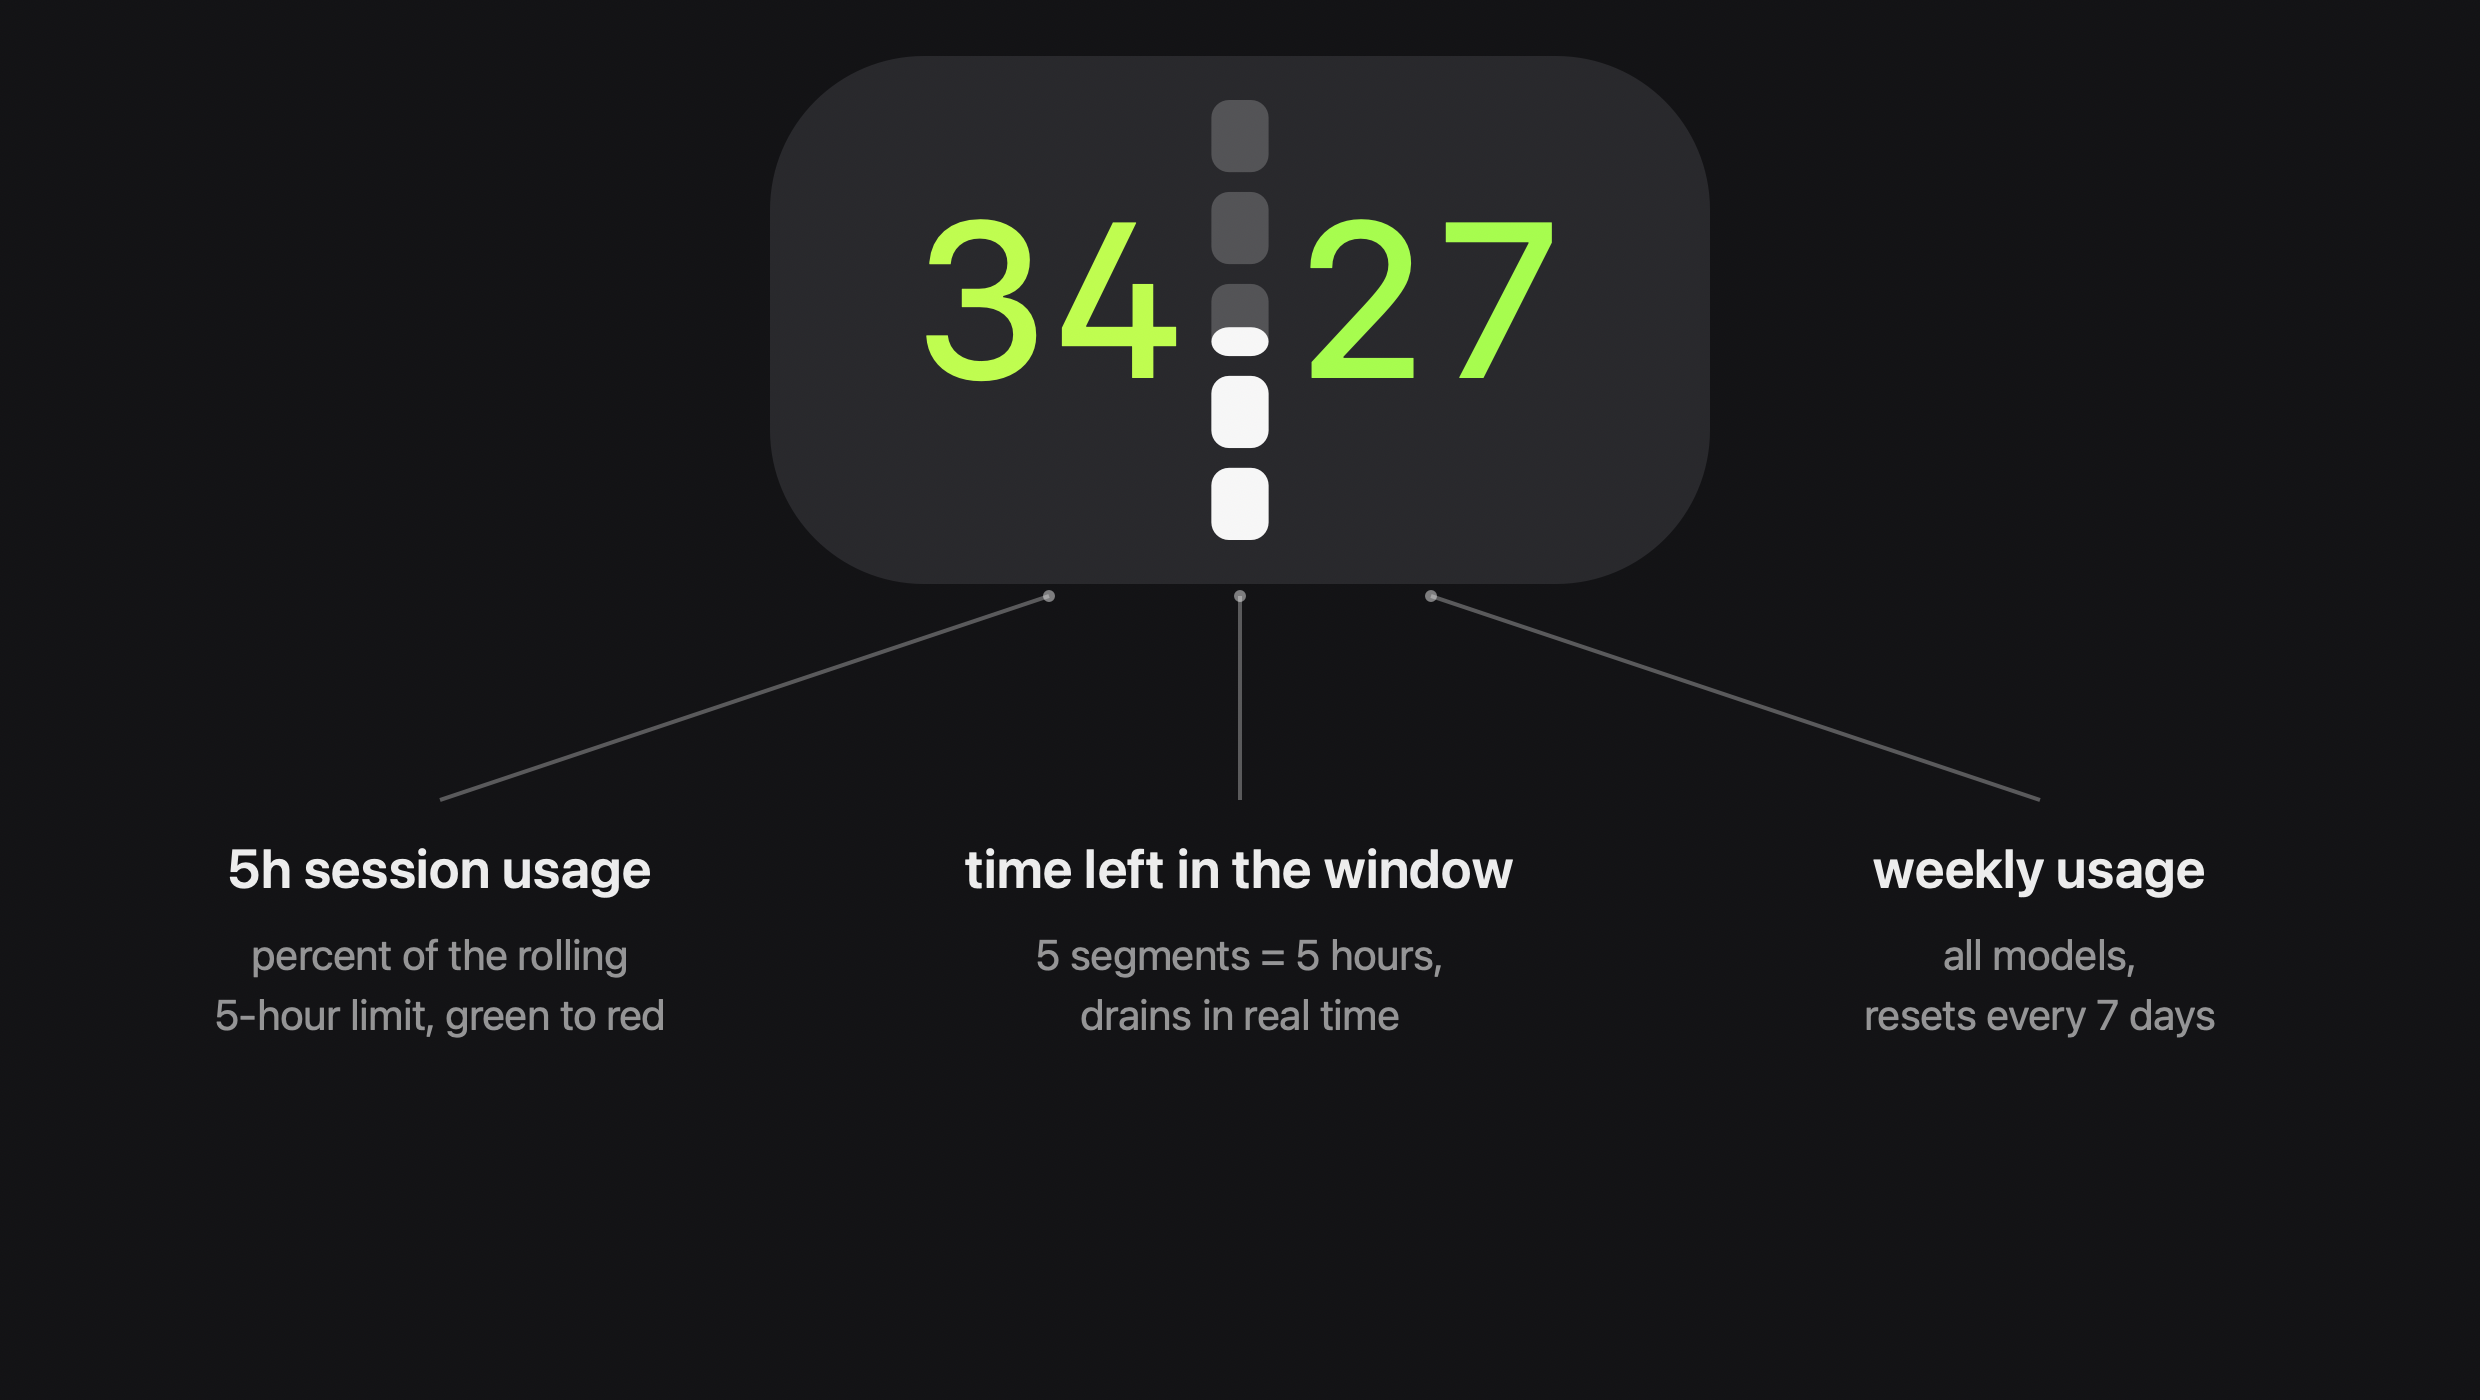
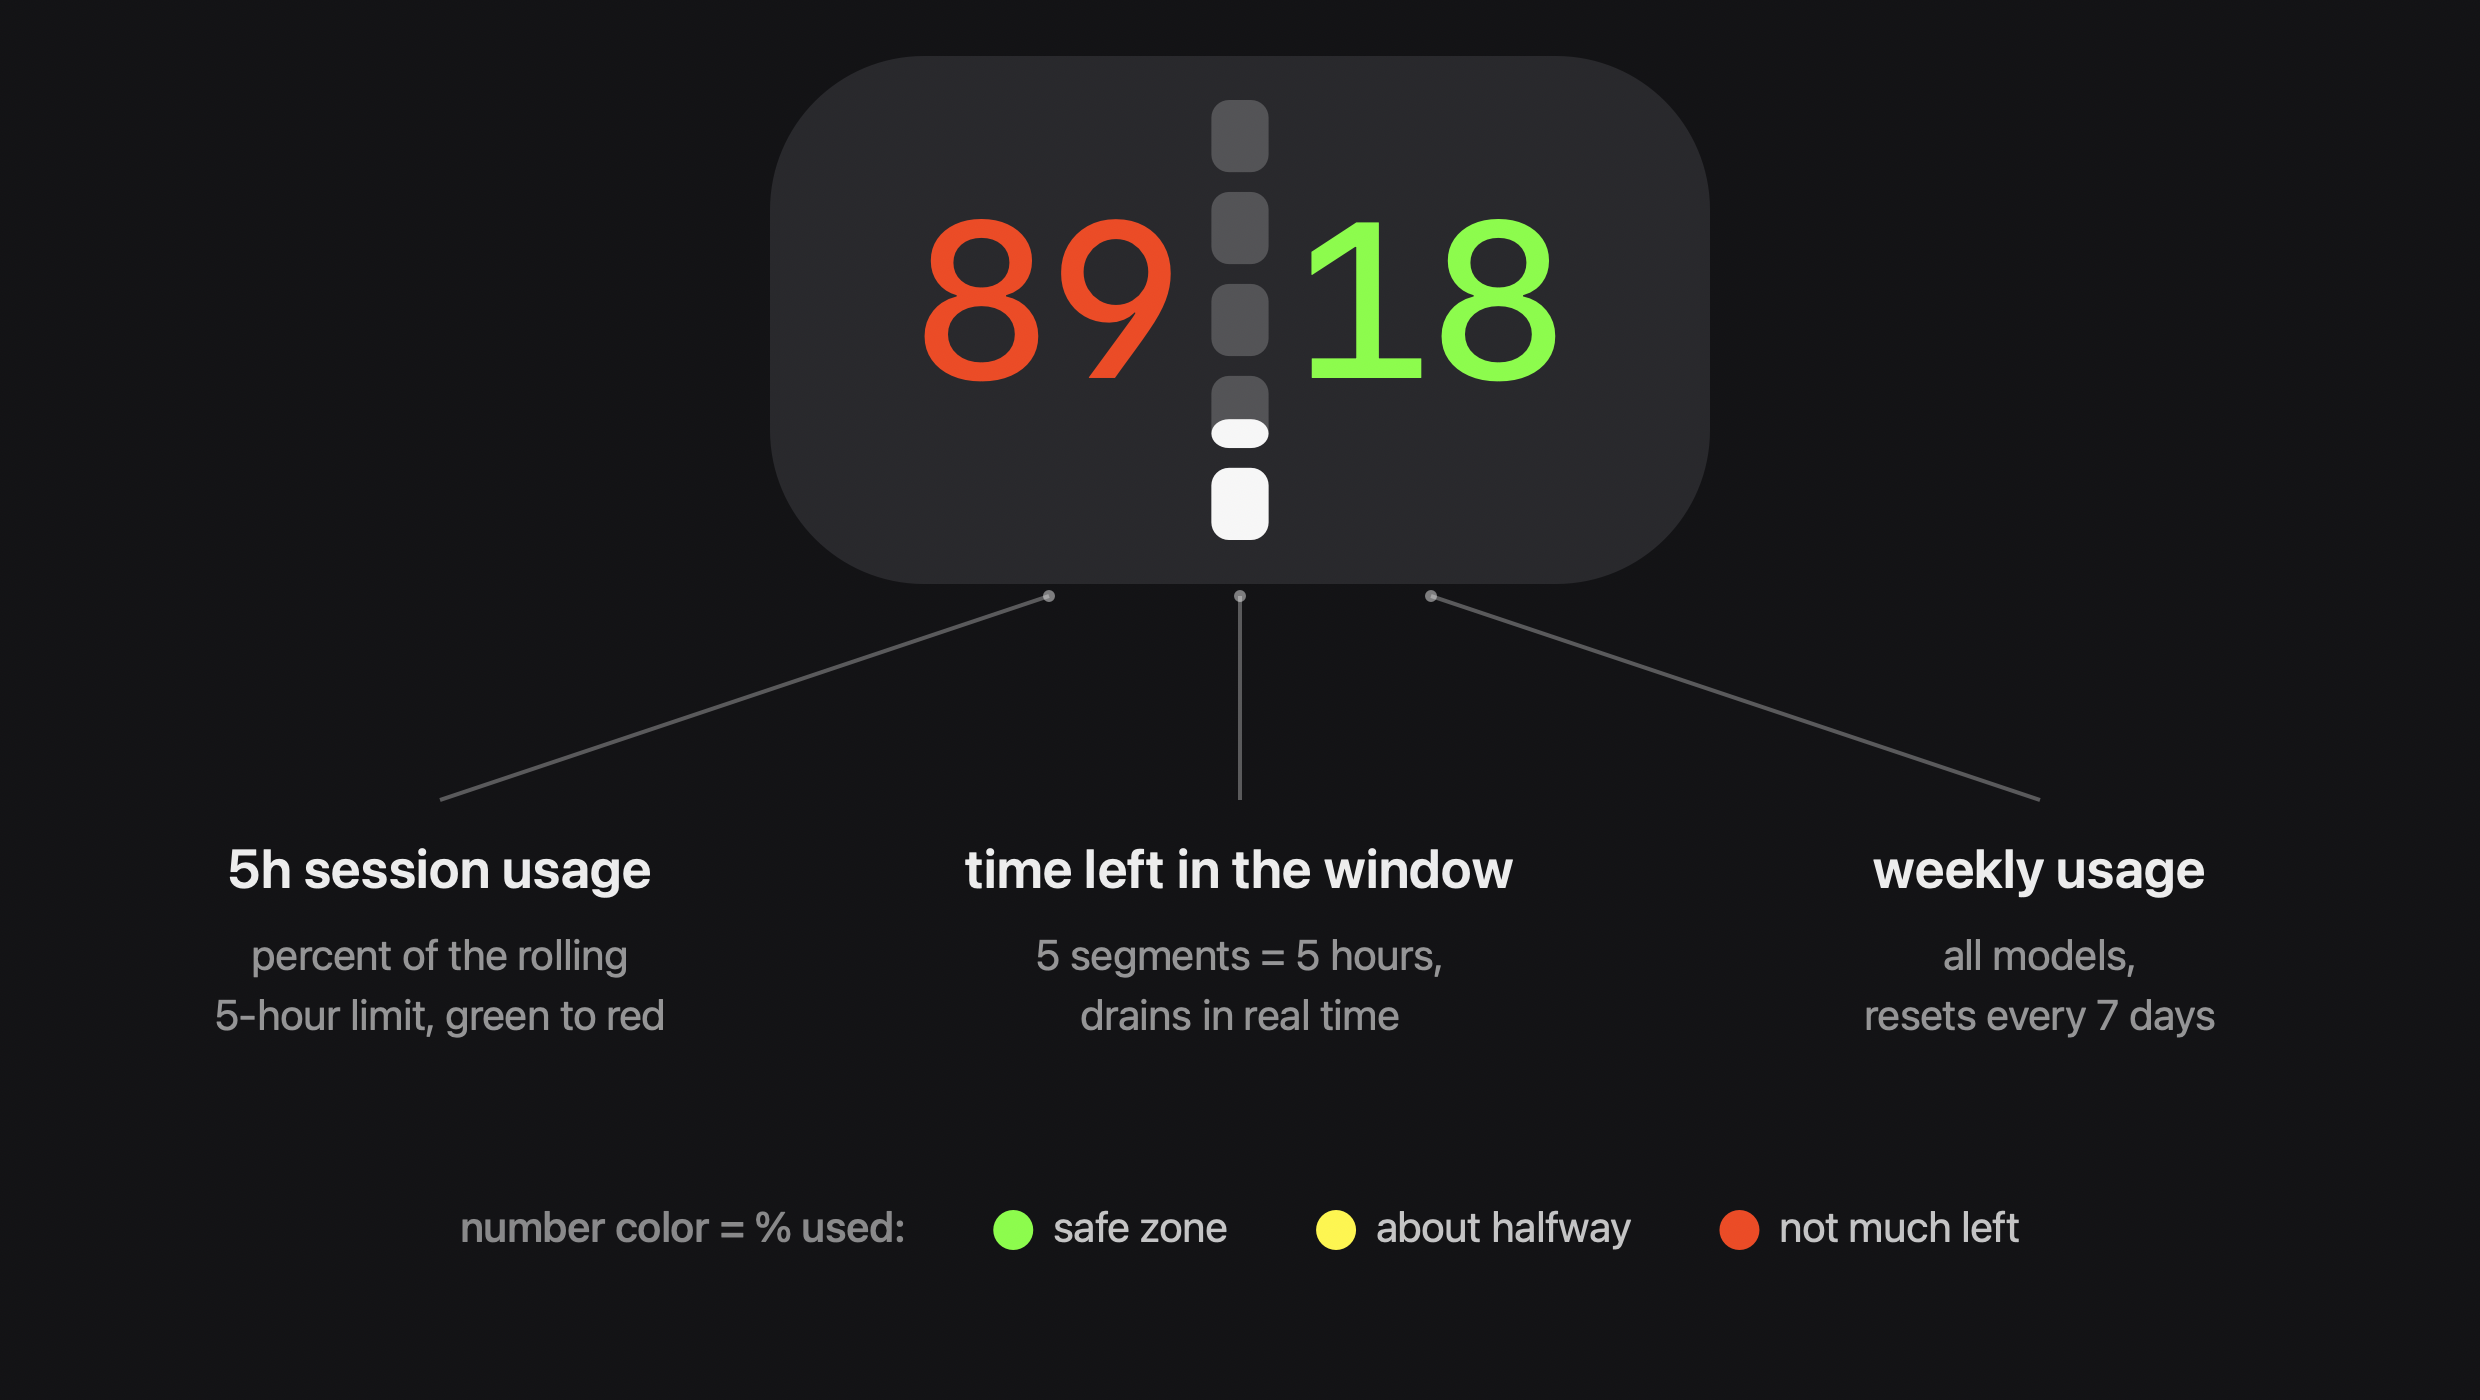
Images: full color-ramp demo + real menu bar screenshot
Marketing images now demonstrate the whole color language in one
glance — 5h at 89 (red), weekly at 18 (green), Fable at 52 (yellow) —
and the explainer gains a legend row: green = safe zone, yellow =
about halfway, red = not much left. Add a real actual-size menu bar
screenshot to the README intro.

diff --git a/README.md b/README.md
@@ -6,6 +6,10 @@ Always-visible Claude rate limits in the macOS menu bar: **5h session usage**, *
 
 If your work runs on Claude (Claude Code, Desktop, claude.ai) on a Pro/Max subscription, the limits are invisible until you slam into one mid-task. This keeps them one glance away, updated every minute, whether or not any Claude client is running.
 
+In the wild, actual size:
+
+![Actual size in the menu bar](docs/menubar-strip.png)
+
 ![How to read the display](docs/explainer.png)
 
 ## Features
